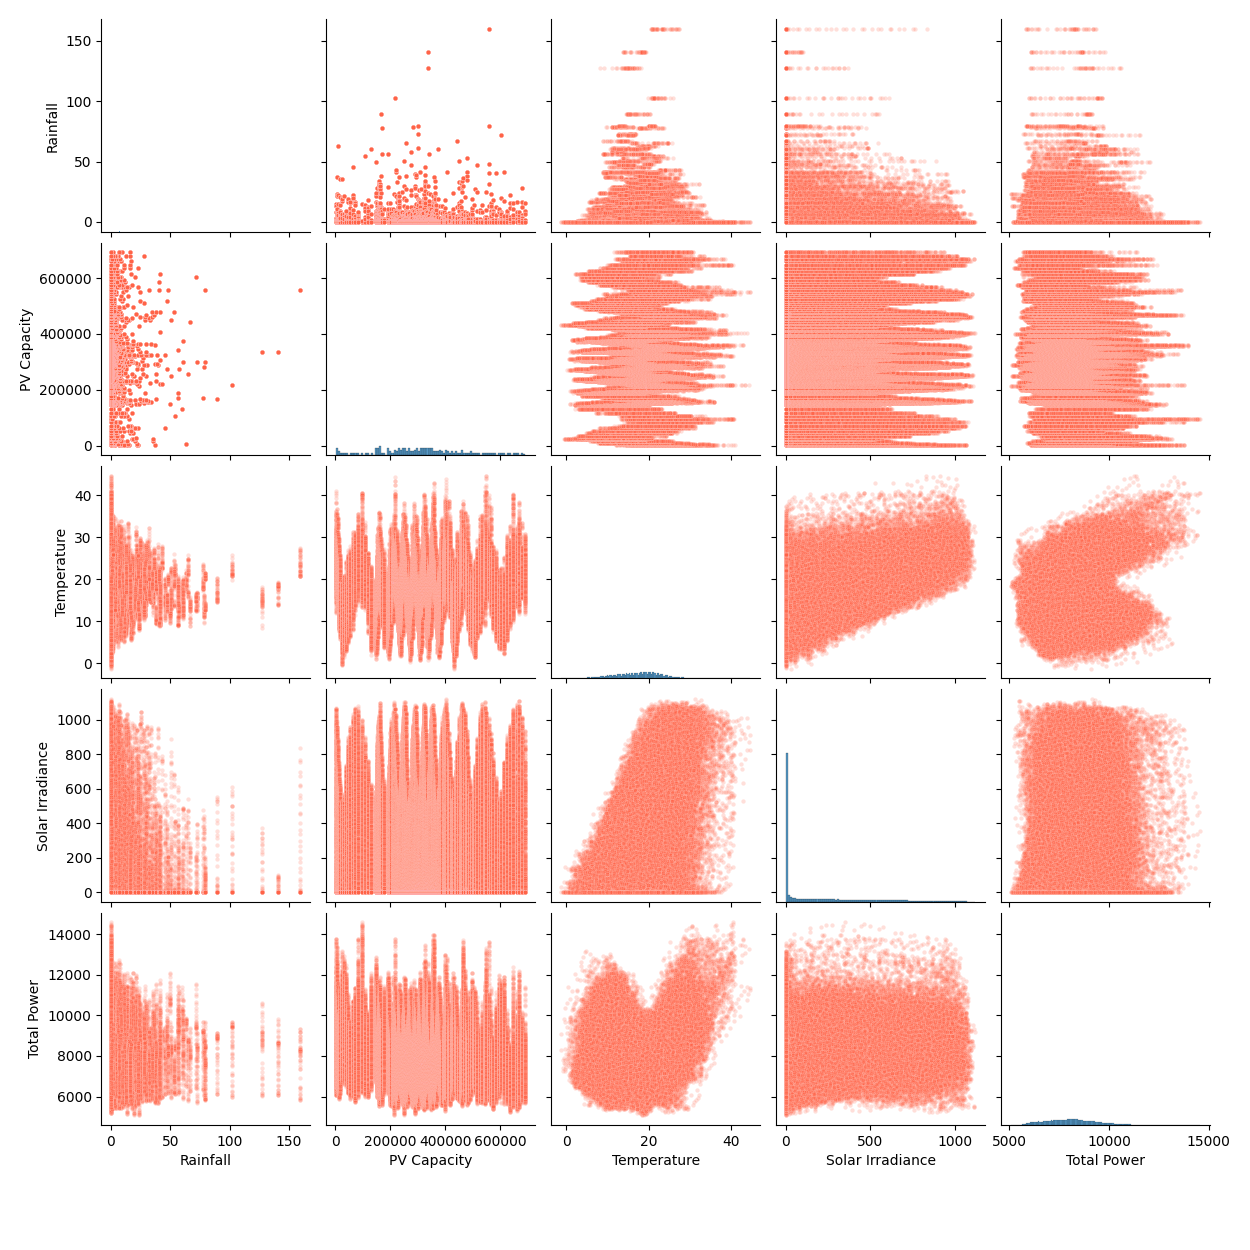
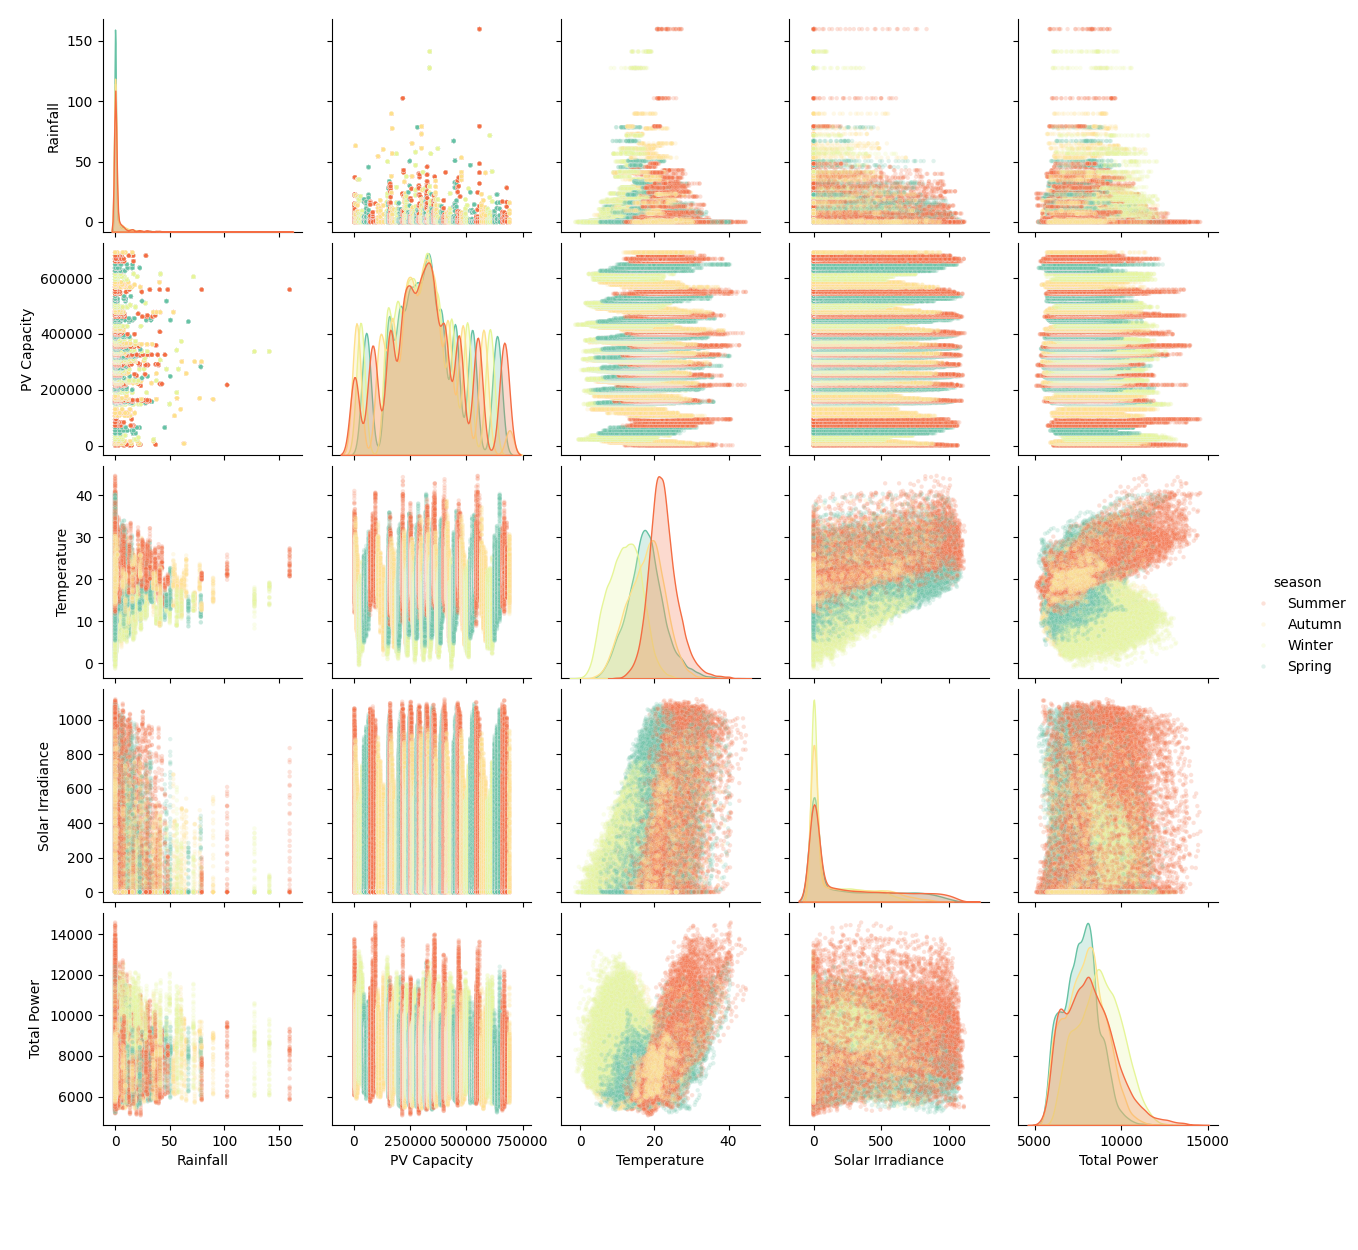
added seasonality to figures

diff --git a/python/eda.py b/python/eda.py
@@ -13,7 +13,7 @@ def scatterplot_matrix(df, img_folder, img_name, colour):
     scatterplot matrix of all numerical variables in dataframe
     """
     var_labels = ['Rainfall', 'PV Capacity', 'Temperature', 'Solar Irradiance', 'Total Power']
-    p = sns.pairplot(df, plot_kws={'alpha': 0.2, 's': 10, 'color':colour})
+    p = sns.pairplot(df, plot_kws={'alpha': 0.6, 's': 10}, hue='season', palette='Spectral')
     p.x_vars = var_labels
     p.y_vars = var_labels
     p._add_axis_labels()
@@ -27,6 +27,25 @@ def corr_matrix (df, peak_df, img_folder):
     correlation matrix of all numerical variables in dataframe
     """
     var_labels = ['Rainfall', 'PV Capacity', 'Temperature', 'Solar Irradiance', 'Total Power']
+    
+    fig, axs = plt.subplots(2, 2, figsize=(12,12))
+    for i in range(4):
+        row = i // 2
+        col = i % 2
+        current_season = peak_df['season'].unique()[i]
+        season_peak_df = peak_df[peak_df['season']==current_season]
+        season_cm = season_peak_df.corr(numeric_only=True)
+        sns.heatmap(season_cm, annot=True, cmap='coolwarm', vmin=-1, vmax=1, ax=axs[row, col], cbar=False, xticklabels=var_labels, yticklabels=var_labels)
+        axs[row, col].set_title(current_season)
+        if row == 0:
+            axs[row, col].set(xticklabels=[])
+        if col == 1:
+            axs[row, col].set(yticklabels=[])
+    plt.suptitle('Seasonal Correlation Between Variables')
+    plt.tight_layout()
+    plt.savefig(img_folder / 'corr_matrices_season_peak')
+    plt.close()
+
     cm = df.corr(numeric_only=True)
     peak_cm = peak_df.corr(numeric_only=True)
     fig, axs = plt.subplots(1, 2, figsize=(11,6))
@@ -52,7 +71,7 @@ def var_distributions(df, peak_df, img_folder):
     for col in col_list:
         col_idx = col_list.index(col)
         sns.violinplot(df[col], ax=axs[0][col_idx], color=vc['all'])
-        sns.violinplot(peak_df[col], ax=axs[1][col_idx], color=vc['peak'])
+        sns.violinplot(peak_df[col], ax=axs[1][col_idx], color=vc['all'])
         ymin, ymax = axs[0][col_idx].get_ylim()
         axs[1][col_idx].set_ylim(ymin, ymax)
         axs[0][col_idx].set_title(col)
@@ -65,6 +84,21 @@ def var_distributions(df, peak_df, img_folder):
     fig.subplots_adjust(left=0.06) 
     plt.savefig(img_folder / 'var_violinplots')
     plt.close()
+
+    # peak demand violin plot by season
+    fig, axs = plt.subplots(5, 1, figsize=(6,12))
+    for col in col_list:
+        col_idx = col_list.index(col)
+        sns.violinplot(peak_df, y=col, ax=axs[col_idx], color=vc['all'], hue='season', palette='Spectral')
+        if col_idx != 4:
+            axs[col_idx].get_legend().remove()
+    plt.suptitle('Peak Demand Variable Distributions')
+    plt.tight_layout()
+    fig.subplots_adjust(bottom=0.035) 
+    axs[4].legend(loc='lower center', bbox_to_anchor=(0.5, -0.2), ncol=4)
+    plt.savefig(img_folder / 'peak_season_violinplots')
+    plt.close()
+
 
     # histograms of numerical variables
     for col in col_list:
@@ -106,11 +140,11 @@ def var_distributions(df, peak_df, img_folder):
 
     # histogram showing time of peak demand
     peak_df['hour_float'] = peak_df['datetime'].dt.hour + peak_df['datetime'].dt.minute / 60
-    sns.histplot(peak_df, x='hour_float', bins=48, color=vc['peak'])
+    sns.histplot(peak_df, x='hour_float', bins=48, hue='season', multiple='stack', palette='Spectral')
     plt.xticks(range(0, 24, 1))  # show every 2 hours
     plt.xlabel('Hour')
     plt.title('Time Frequency of Peak Electricity Demand')
-    plt.savefig(img_folder / 'peak_demand_time_histogram')
+    plt.savefig(img_folder / 'peak_demand_time_histogram_seasons')
     plt.close()
 
 
@@ -241,6 +275,9 @@ demand_df['time'] = pd.to_datetime(demand_df['time'], format='%H:%M:%S')
 demand_df['date'] = demand_df['datetime'].dt.date
 demand_df['date'] = pd.to_datetime(demand_df['date'], format='%Y-%m-%d')
 demand_df = demand_df[demand_df['date']!='2010-01-01']
+seasons_dict={1: 'Summer', 2: 'Summer', 3: 'Autumn', 4: 'Autumn', 5: 'Autumn', 6: 'Winter',
+                  7: 'Winter', 8: 'Winter', 9: 'Spring', 10: 'Spring', 11: 'Spring', 12: 'Summer'}
+demand_df['season'] = demand_df['date'].dt.month.map(seasons_dict)
 
 # get corresponding data to daily peak demand
 max_idx = demand_df.groupby('date')['total_demand'].idxmax()
@@ -250,22 +287,22 @@ forecast_demand_df = pd.read_csv(data_folder / 'peak_forecasts.csv')
 
 
 # explore relationships between variables
-scatterplot_matrix(demand_df, img_folder, 'demand_var_comparison', vc['all'])
-scatterplot_matrix(peak_demand_df, img_folder, 'peak_demand_var_comparison', vc['peak'])
-corr_matrix (demand_df, peak_demand_df, img_folder)
+#scatterplot_matrix(demand_df, img_folder, 'demand_var_comparison', vc['all'])
+#scatterplot_matrix(peak_demand_df, img_folder, 'peak_demand_var_comparison', vc['peak'])
+#corr_matrix (demand_df, peak_demand_df, img_folder)
 
 # explore variable distributions
 var_distributions(demand_df, peak_demand_df, img_folder)
 
 # explore temporal distributions
-demand_time(peak_demand_df, img_folder)
-demand_time_all(demand_df, peak_demand_df, img_folder)
-daily_stats(demand_df, peak_demand_df, img_folder)
+#demand_time(peak_demand_df, img_folder)
+#demand_time_all(demand_df, peak_demand_df, img_folder)
+#daily_stats(demand_df, peak_demand_df, img_folder)
 
 # plot AEMO forecast distributions
-aemo_forecast(forecast_demand_df, img_folder)
+#aemo_forecast(forecast_demand_df, img_folder)
 
 
 
-statistic_reports(demand_df, peak_demand_df, 'pv_capacity')
+#statistic_reports(demand_df, peak_demand_df, 'pv_capacity')
 
